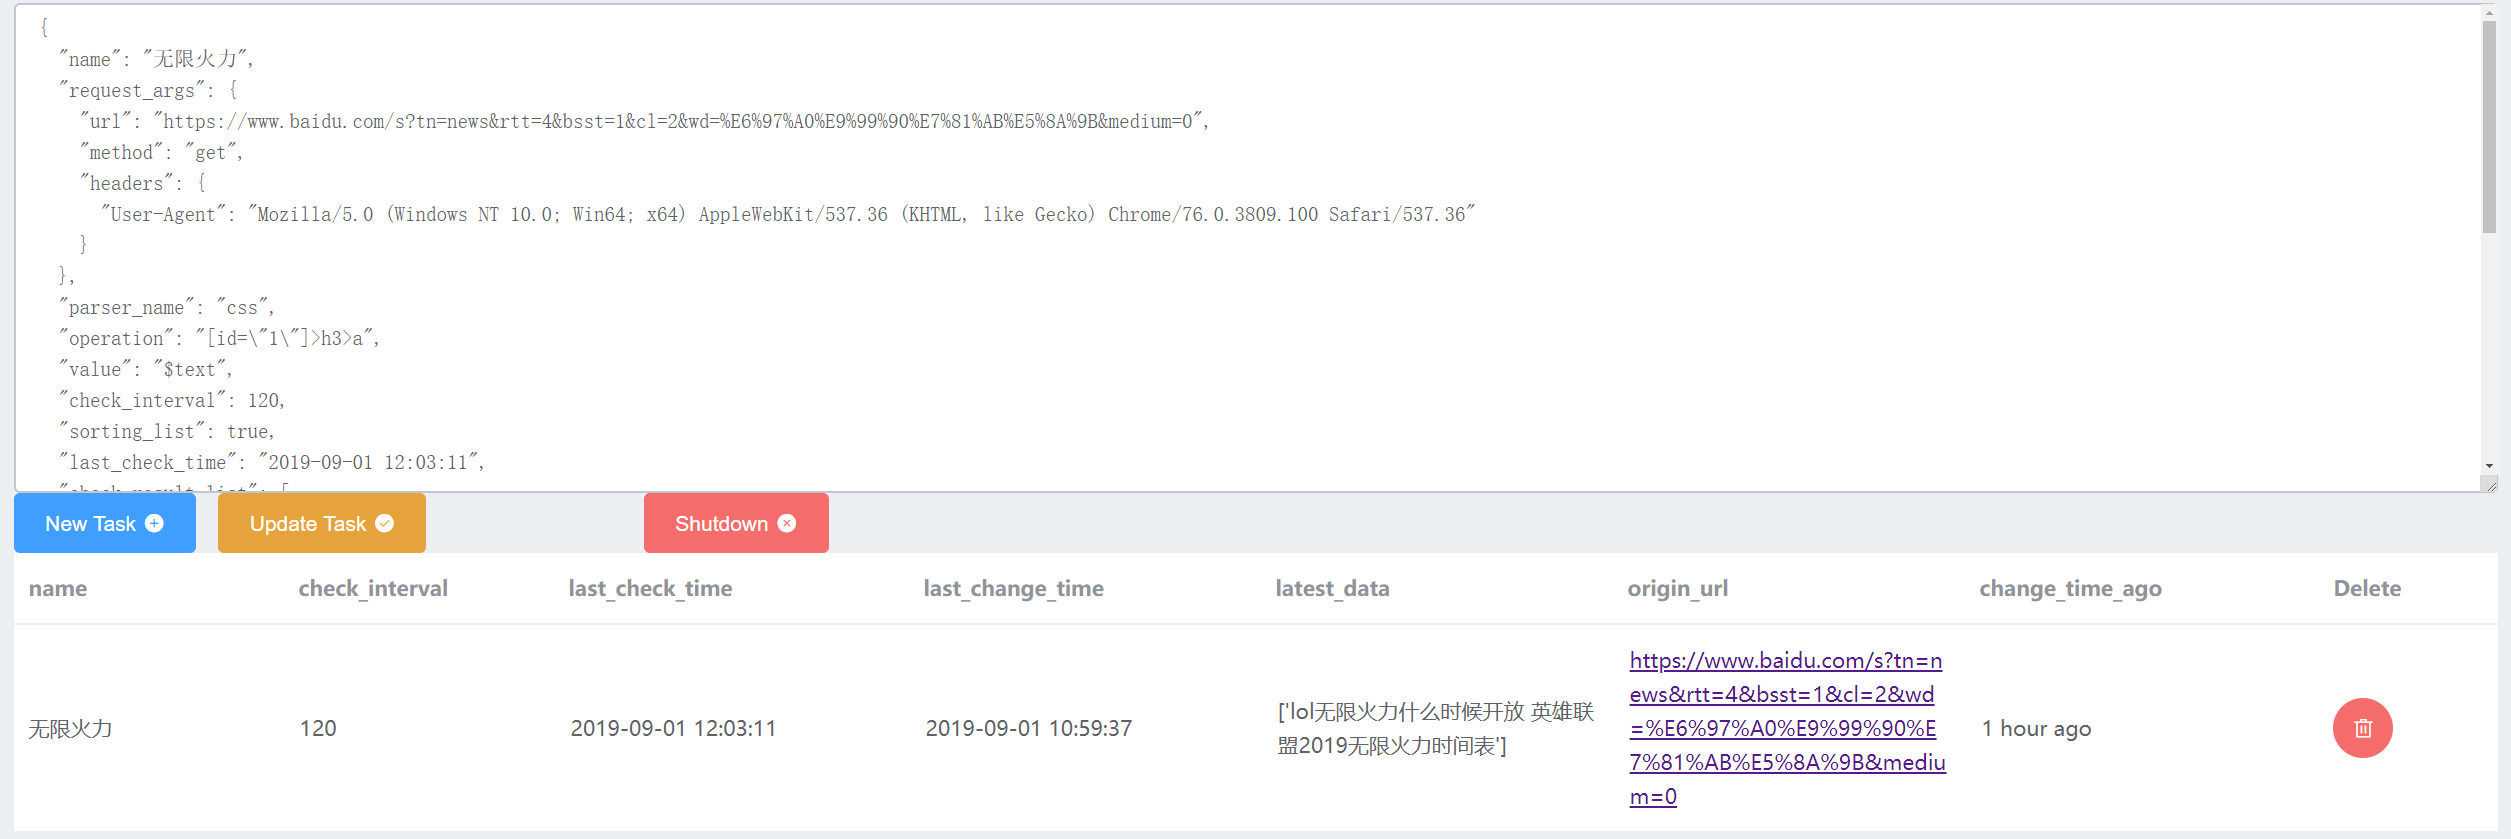
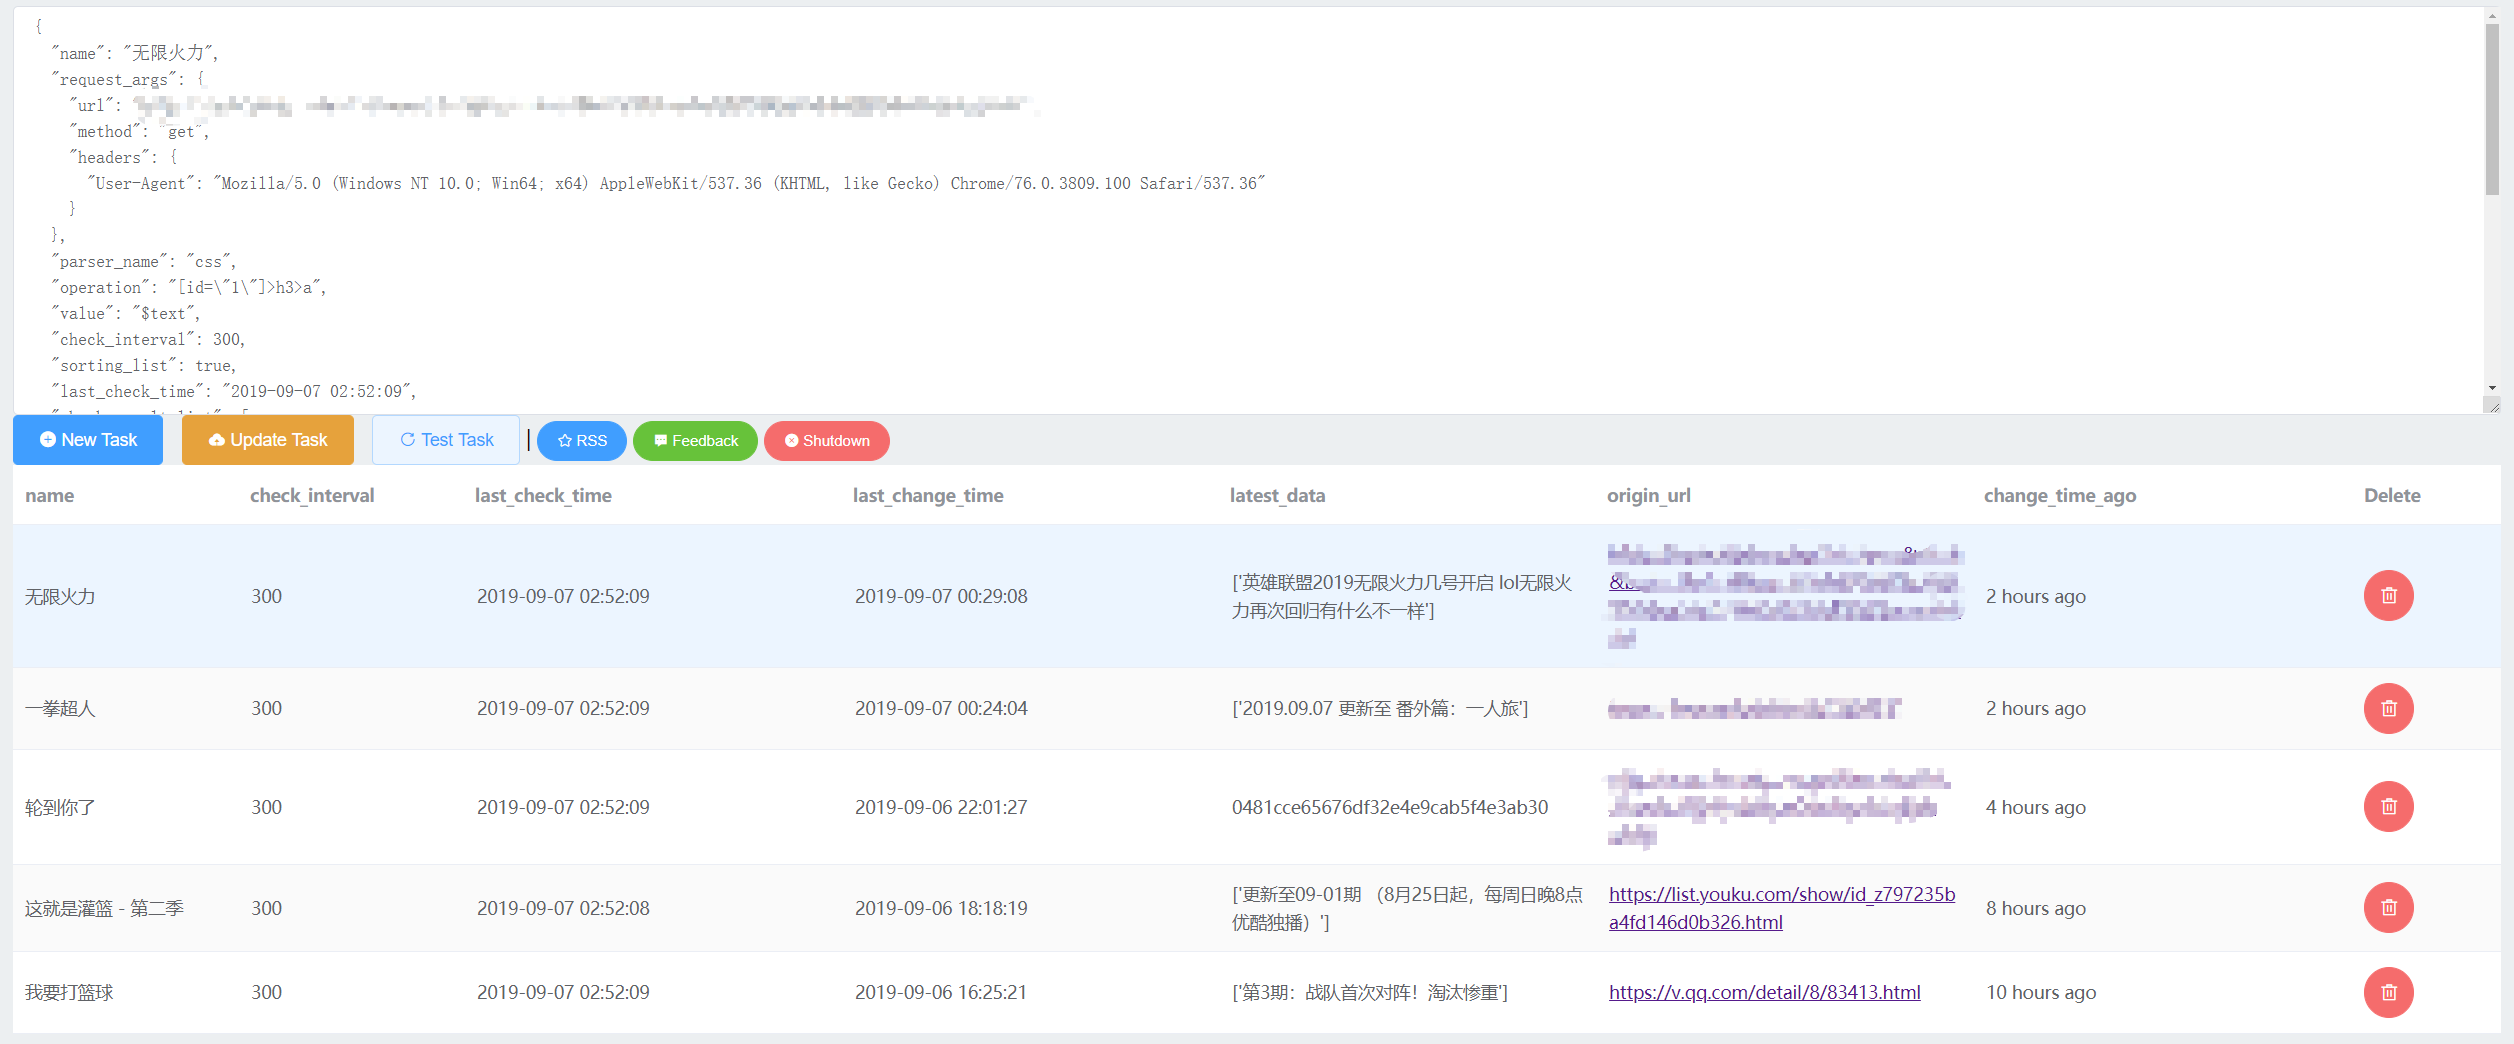
update rss support

diff --git a/onwebchange/templates/index.html b/onwebchange/templates/index.html
@@ -30,20 +30,27 @@
             v-model="current_task_json">
         </el-input>
         <br>
-        <el-button @click.native.prevent="addTask" type="primary">New Task<i
-                class="el-icon-circle-plus el-icon--right"></i></el-button>
-        <el-button @click.native.prevent="updateTask" type="warning">Update Task<i
-                class="el-icon-success el-icon--right"></i></el-button>
-        <el-button @click.native.prevent="testTask" type="primary">Test Task<i
-                class="el-icon-success el-icon--right"></i></el-button>
+        <el-button @click.native.prevent="addTask" type="primary"><i class="el-icon-circle-plus"></i> New
+            Task
+        </el-button>
+        <el-button @click.native.prevent="updateTask" type="warning"><i class="el-icon-upload"></i>
+            Update Task
+        </el-button>
+        <el-button @click.native.prevent="testTask" type="primary" plain><i
+                class="el-icon-refresh-right"></i> Test Task
+        </el-button>
+        |
         <a href="/rss" target="_blank" rel="noopener noreferrer">
-            <el-button type="primary">RSS<i class="el-icon-star-off el-icon--right"></i>
+            <el-button round size="small" type="primary"><i class="el-icon-star-off"></i> RSS
             </el-button>
         </a>
-        |
-        <el-button @click.native.prevent="shutdown" type="danger">Shutdown<i class="el-icon-error el-icon--right"></i>
+        <a href="https://github.com/ClericPy/OnWebChange/issues" target="_blank" rel="noopener noreferrer">
+            <el-button round size="small" type="success"><i class="el-icon-s-comment"></i> Feedback
+            </el-button>
+        </a>
+        <el-button @click.native.prevent="shutdown" round size="small" type="danger"><i
+                class="el-icon-error"></i> Shutdown
         </el-button>
-
         <template style="width: 100%; height: 70%;">
 
             <el-table :data="tasks" highlight-current-row @current-change="handleCurrentChange" stripe
@@ -86,6 +93,7 @@
                     current_task_json: "",
                     currentRow: null,
                     global_last_change_time: null,
+                    ok: true,
                 };
             },
             methods: {
@@ -111,6 +119,9 @@
                     }
                 },
                 refreshData() {
+                    if (this.ok != true) {
+                        return
+                    }
                     this.$http.get('/get_task_list').then(
                         r => {
                             this.tasks = r.body.tasks
@@ -142,8 +153,10 @@
                     this.$http.get('/shutdown').then(
                         r => {
                             this.openAlert('server shutdown.')
+                            this.ok = false
                         }, r => {
                             this.openAlert('server shutdown.')
+                            this.ok = false
                         }
                     )
                 },

diff --git a/onwebchange/webui.py b/onwebchange/webui.py
@@ -114,6 +114,13 @@ def gen_rss(data):
   <link>{channel_link}</link>
   <description>{channel_desc}</description>
   <language>{channel_language}</language>
+  <image>
+    <url>{channel_link}/icon.svg</url>
+    <title>{channel_title}</title>
+    <link>{channel_link}</link>
+    <width>32</width>
+    <height>32</height>
+   </image>
   {items_string}
 </channel>
 </rss>
@@ -152,6 +159,17 @@ def rss_handler():
     xml: str = gen_rss(xml_data)
     response.headers['Content-Type'] = 'application/rss+xml; charset=utf-8'
     return xml.encode('utf-8')
+
+
+@app.get("/icon.svg")
+def icon():
+    response.headers['Content-Type'] = 'image/svg+xml'
+    response.headers['Vary'] = 'Accept-Encoding'
+    return r'''<svg xmlns="http://www.w3.org/2000/svg" viewBox="0 0 24 24"><g>
+        <path fill="none" d="M0 0h24v24H0z"/>
+        <path d="M3 3c9.941 0 18 8.059 18 18h-3c0-8.284-6.716-15-15-15V3zm0 7c6.075 0 11 4.925 11 11h-3a8 8 0 0 0-8-8v-3zm0 7a4 4 0 0 1 4 4H3v-4z"/>
+    </g>
+</svg>'''
 
 
 if __name__ == "__main__":

diff --git a/onwebchange/__init__.py b/onwebchange/__init__.py
@@ -2,4 +2,4 @@
 
 from .core import WatchdogCage, WebHandler
 
-__version__ = '0.1.1'
+__version__ = '0.1.2'

diff --git a/README.md b/README.md
@@ -1,5 +1,14 @@
 # onwebchange
 
+
+
+### Default Web UI
+
+![demo](demo.png)
+
+- [x] Default Console Web UI
+- [x] RSS support
+
 ### Install
 
 > pip install onwebchange -U
@@ -13,10 +22,6 @@
 > bottle
 > objectpath
 > beautifulsoup4
-
-### Default Web UI
-
-![demo](demo.png)
 
 #### Quick start
 
